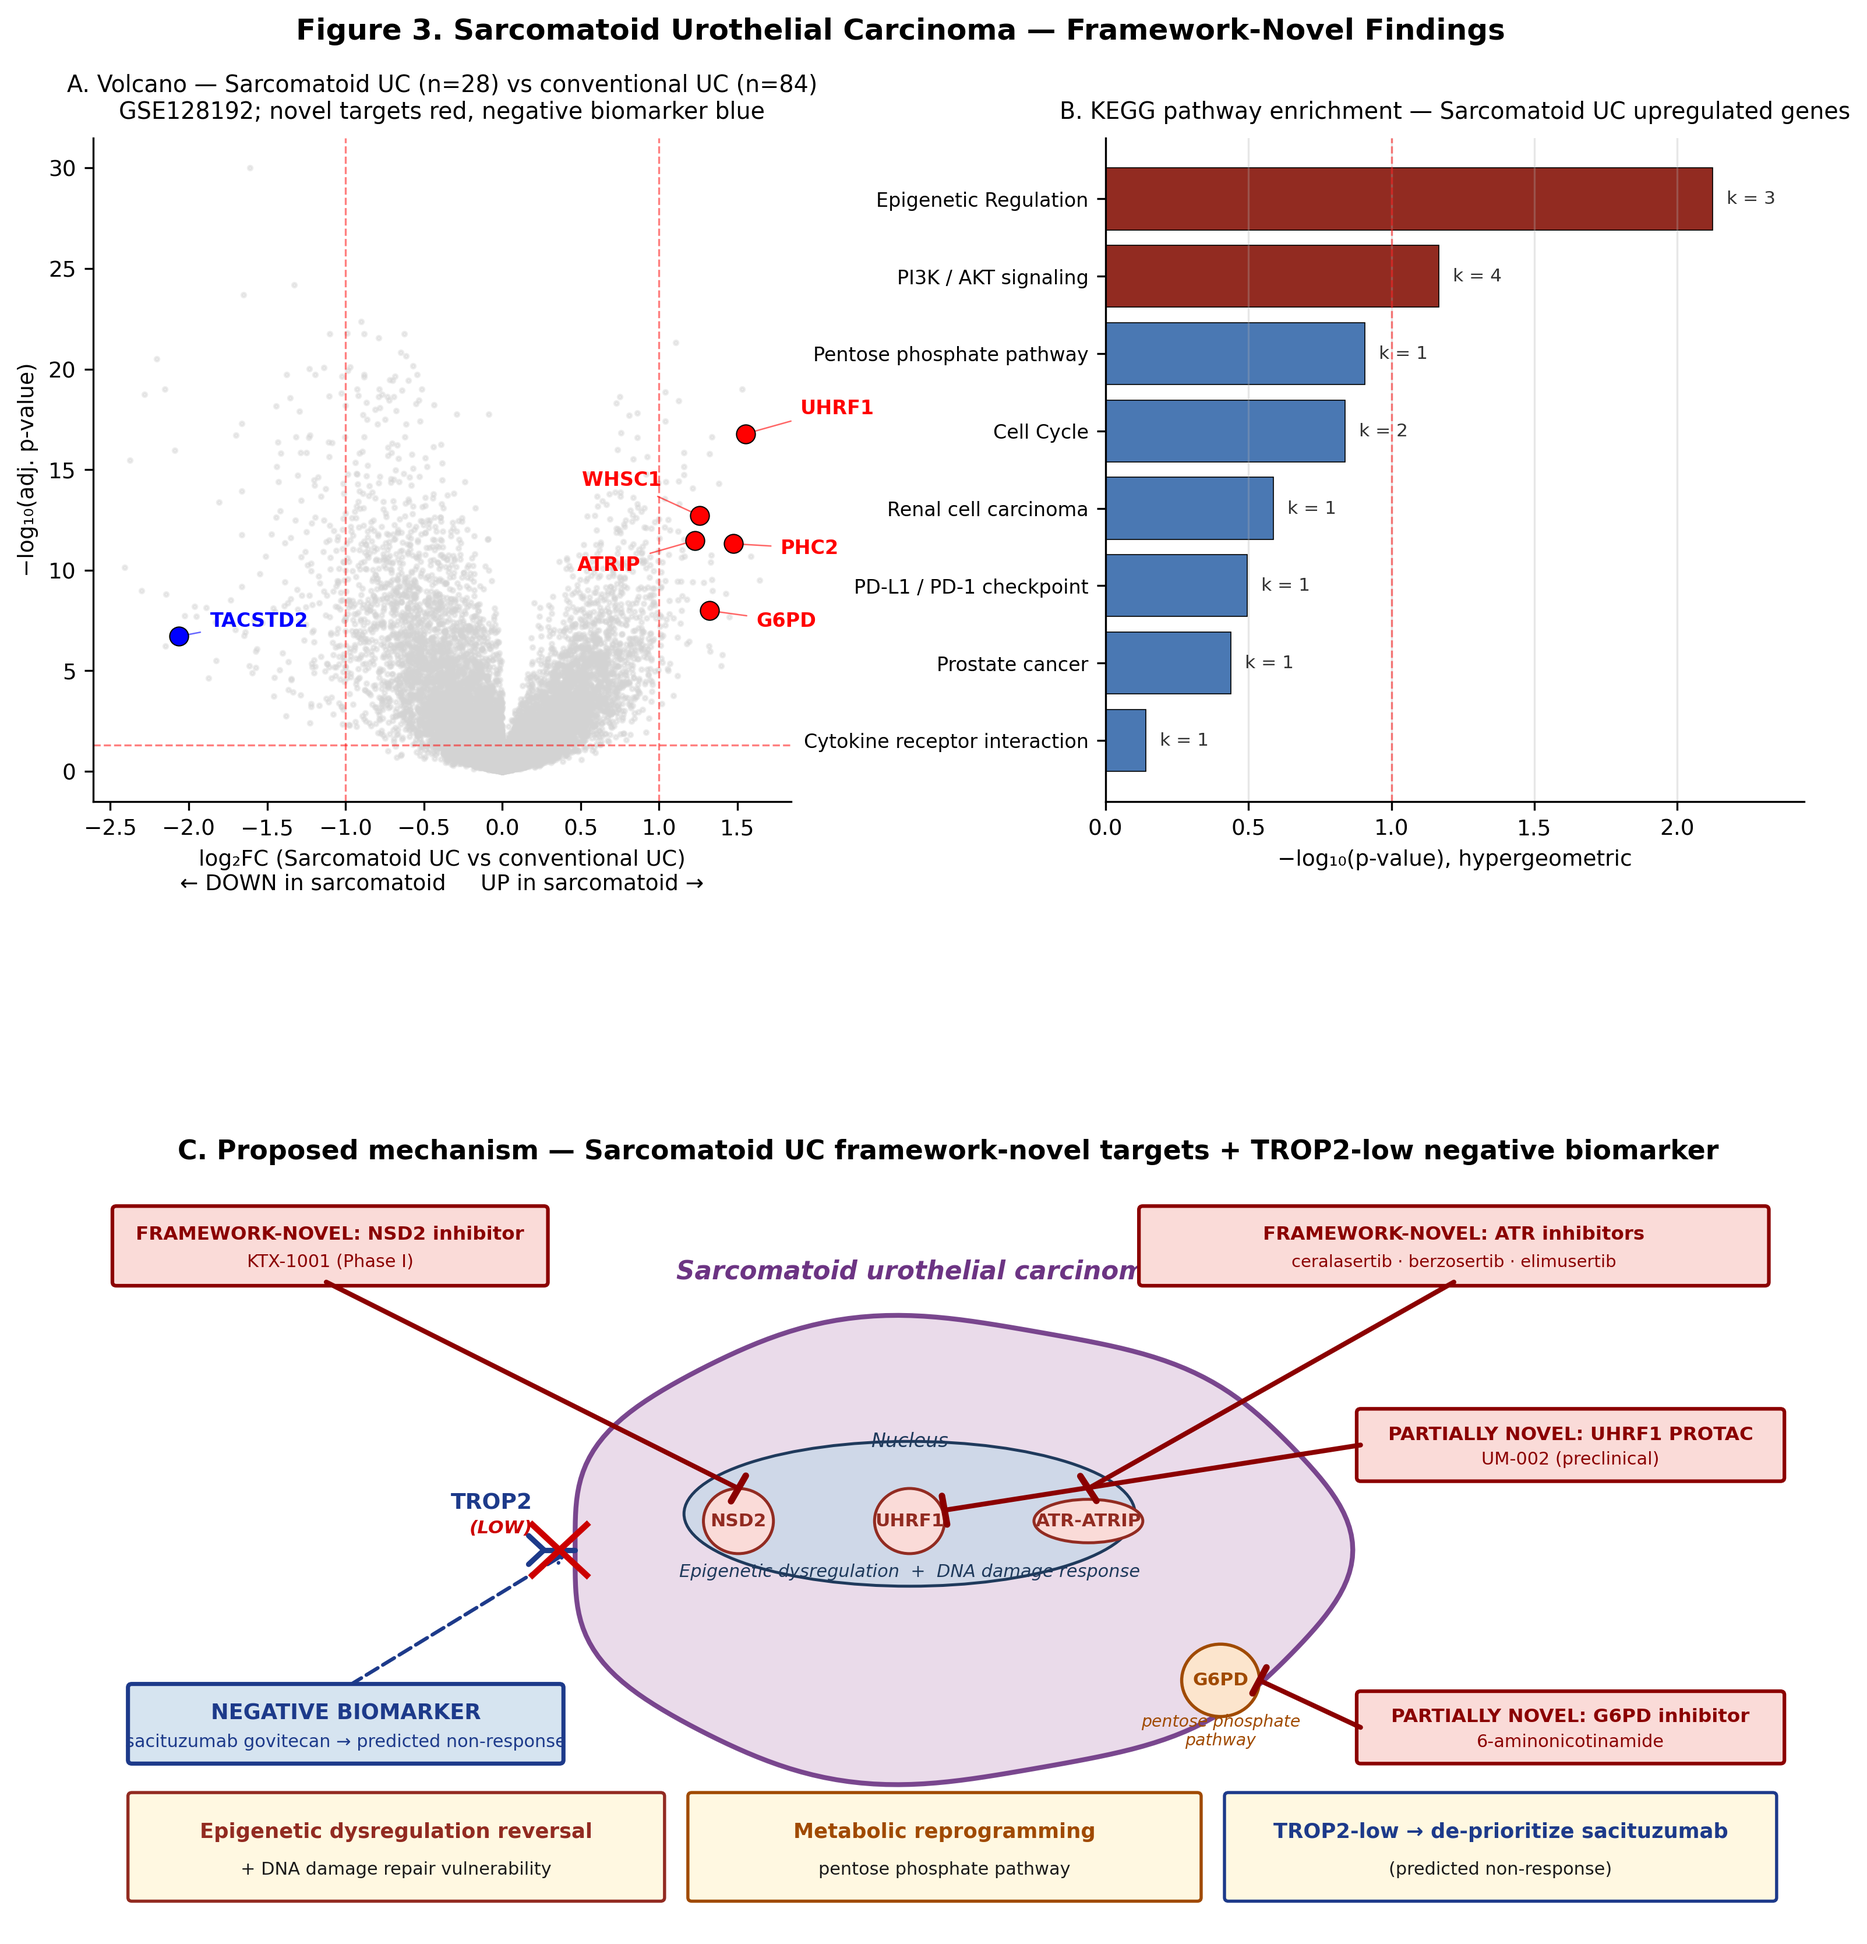
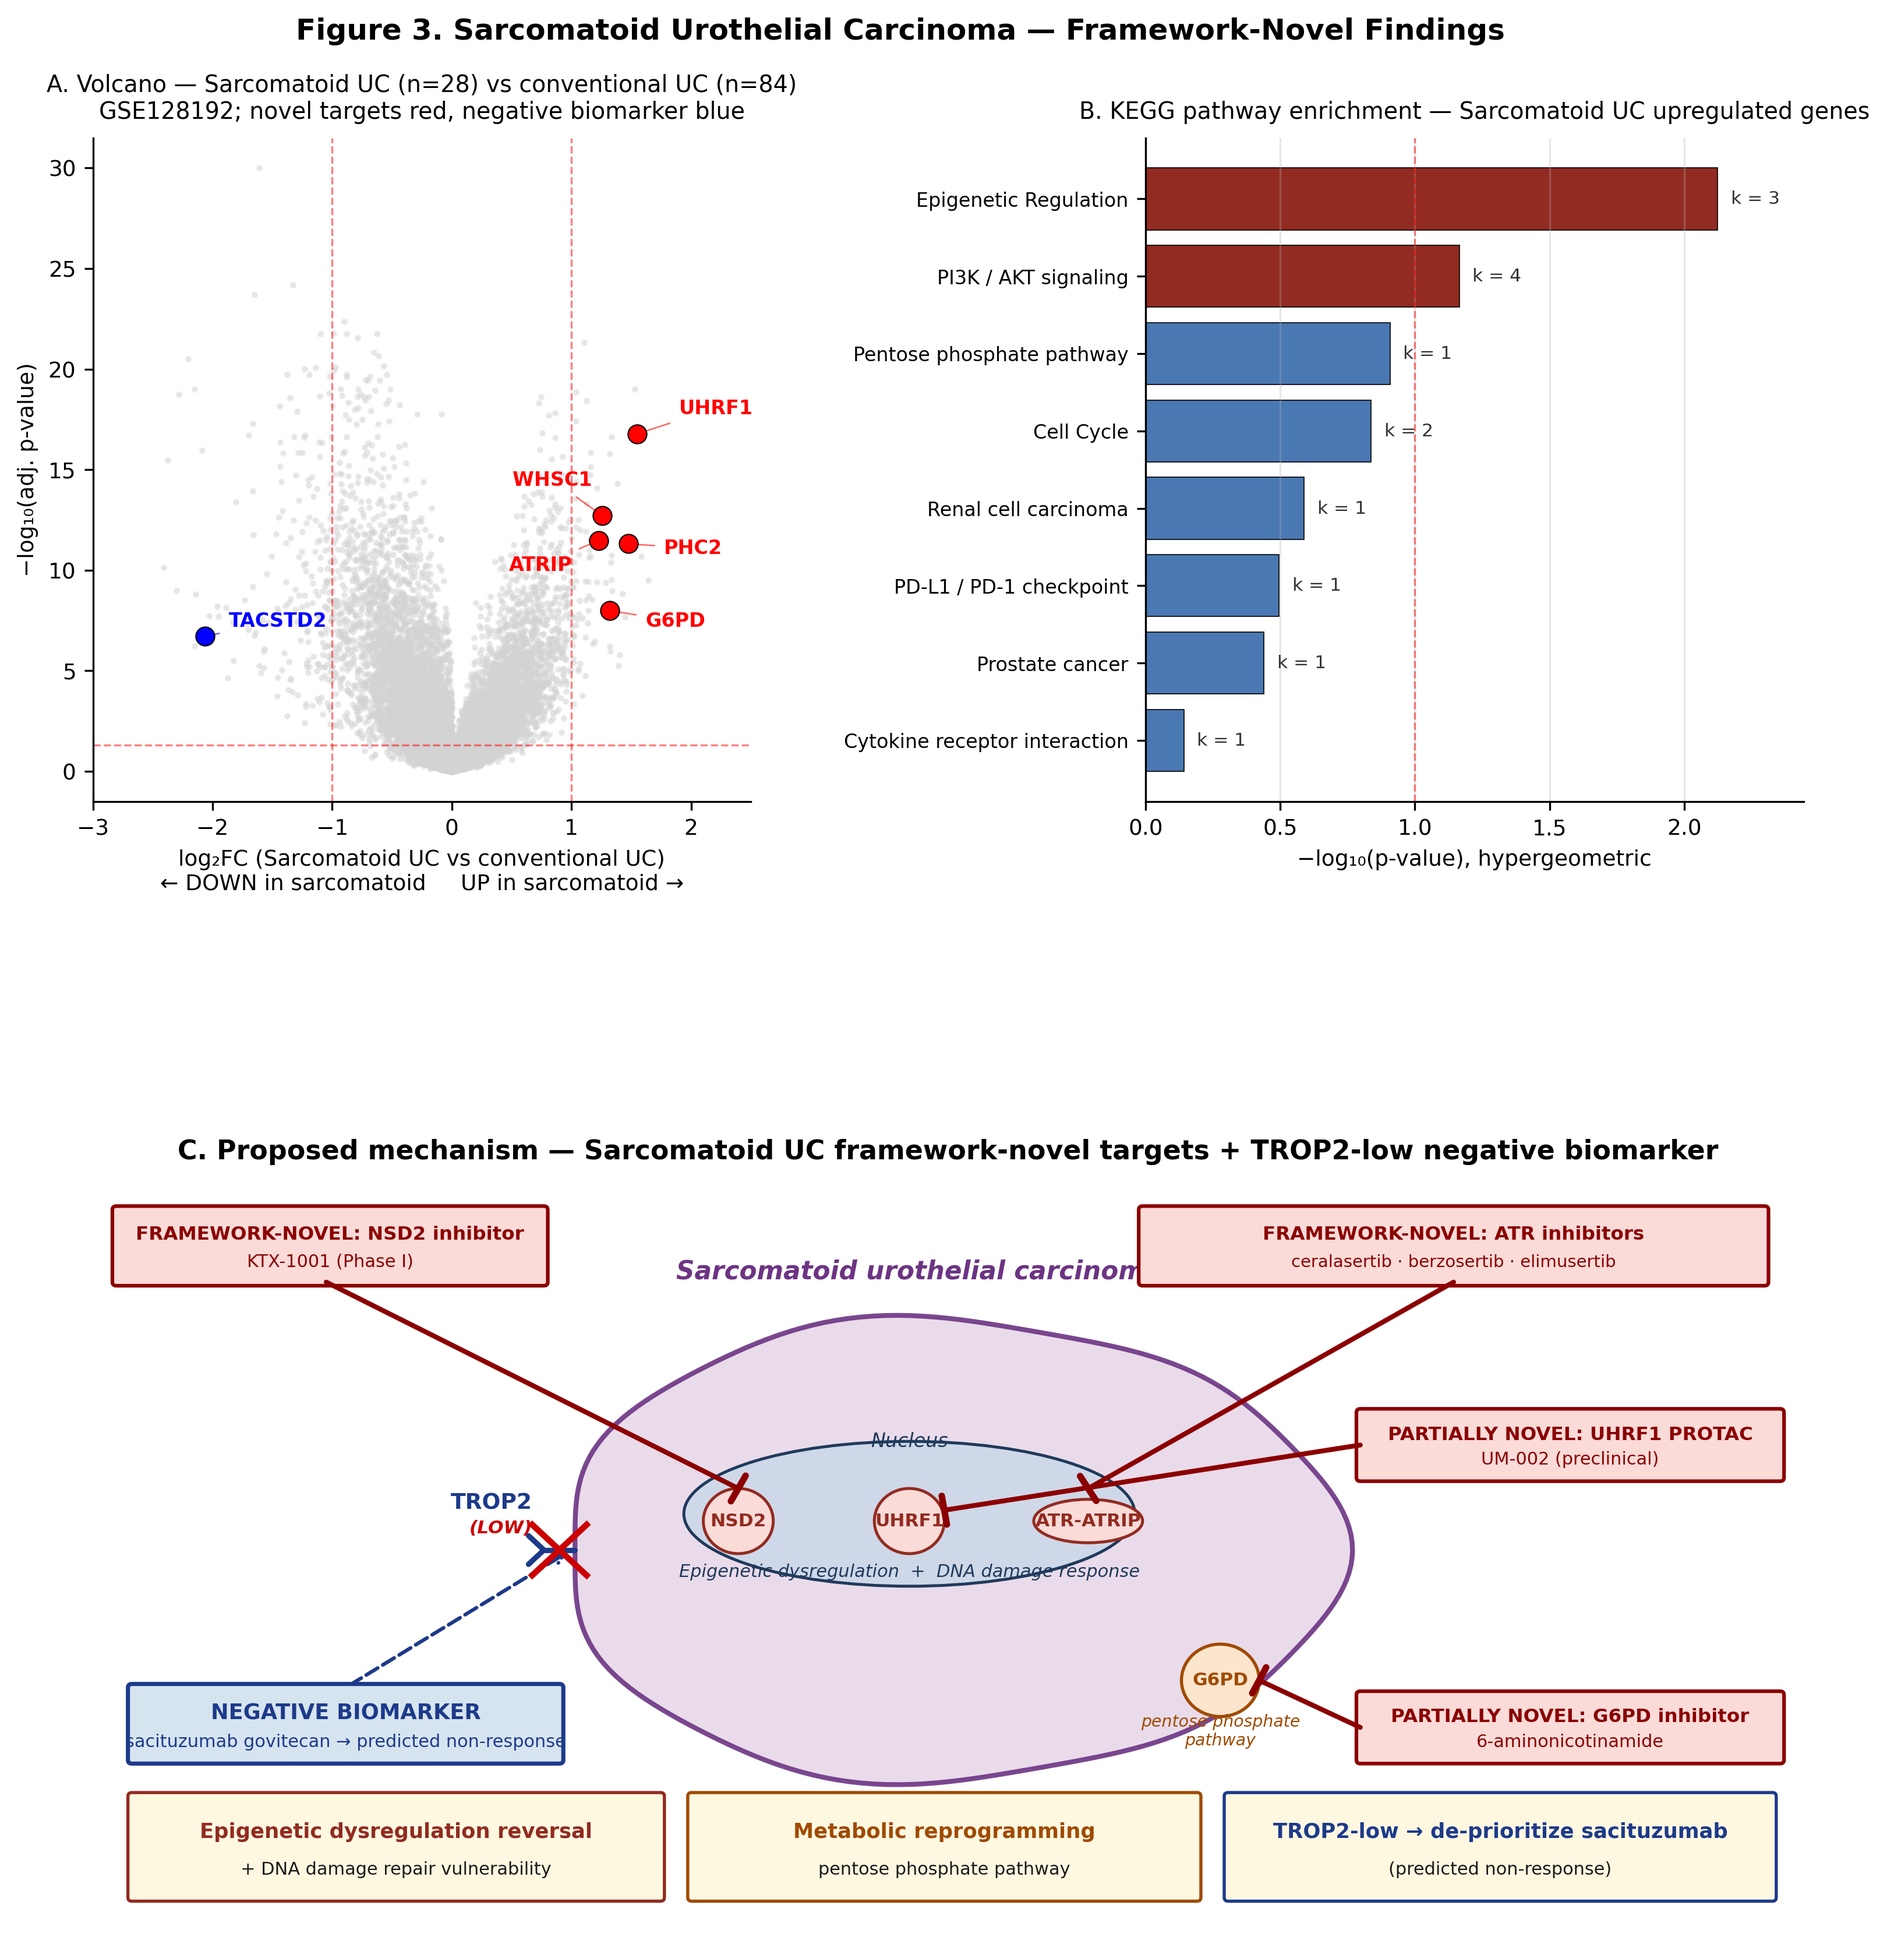
Fix Fig 3 A/B panel overlap (wspace + explicit volcano xlim)
- gridspec wspace bumped from 0.45 to 0.60 for Figure 3 (Panel A
  volcano + Panel B KEGG enrichment were still touching at 0.45
  because the volcano gene-label leader-line offsets pushed labels
  past the data range)
- Set explicit xlim(-3.0, 2.5) on the Sarc-UC volcano so the
  annotated gene labels stay within the Panel A bounding box
  instead of drifting toward Panel B

diff --git a/code/pipeline/12_generate_figures.py b/code/pipeline/12_generate_figures.py
@@ -559,7 +559,7 @@ sarc_de = pd.read_csv(RESULTS / 'SarcomatoidUC_DE_full.csv')
 fig = plt.figure(figsize=(11, 11.5))
 gs = gridspec.GridSpec(2, 2, figure=fig,
                        height_ratios=[1.0, 1.20],
-                       hspace=0.45, wspace=0.45,
+                       hspace=0.45, wspace=0.60,
                        left=0.08, right=0.97, top=0.93, bottom=0.04)
 axA = fig.add_subplot(gs[0, 0])
 axB = fig.add_subplot(gs[0, 1])
@@ -598,6 +598,7 @@ axA.axvline(1, color='red', linestyle='--', lw=0.8, alpha=0.5)
 axA.axhline(-np.log10(0.05), color='red', linestyle='--', lw=0.8, alpha=0.5)
 axA.set_xlabel('log₂FC (Sarcomatoid UC vs conventional UC)\n← DOWN in sarcomatoid     UP in sarcomatoid →')
 axA.set_ylabel('−log₁₀(adj. p-value)')
+axA.set_xlim(-3.0, 2.5)
 axA.set_title('A. Volcano — Sarcomatoid UC (n=28) vs conventional UC (n=84)\n'
               'GSE128192; novel targets red, negative biomarker blue',
               fontsize=9.5, pad=8)
